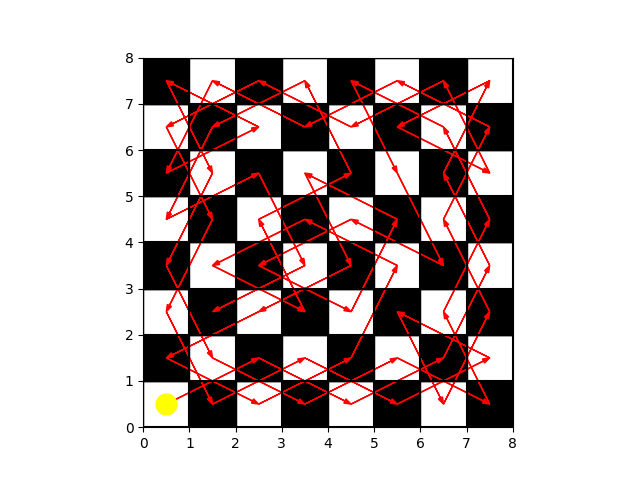
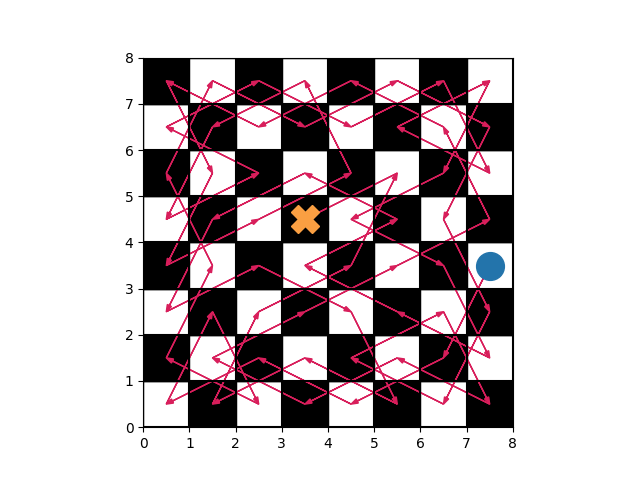
Cambié los colores de las flechas y añadí además un simbolo de fín para el último movimiento. Añadí dos imagenes png para un tablero 20x20 y otro 50x50.

diff --git a/caballo/ploteo.py b/caballo/ploteo.py
@@ -29,41 +29,47 @@ def generar_tablero():
                         edgecolor="black",
                     )
 
-
 def dibujar_vector(x1, y1, x2, y2):
     plt.arrow(
         x1 + 0.5,
         y1 + 0.5,
         x2 - x1,
         y2 - y1,
-        color="red",
+        color="#D81E5B",
         head_width=0.1,
         length_includes_head=True,
     )
 
-
 def generar_imagen(path: str, show: bool):
     import csv
 
-    movements = []
+    movimientos = []
     with open("movimientos.csv", newline="") as csvfile:
         reader = csv.reader(csvfile)
         for row in reader:
-            movements.append([int(x) for x in row])
+            movimientos.append([int(x) for x in row])
 
     generar_tablero()
 
     # Plotea los vectores de acuerdo a los movimientos.
-    for move in movements:
-        dibujar_vector(move[0], move[1], move[2], move[3])
+    for mov in movimientos:
+        dibujar_vector(mov[0], mov[1], mov[2], mov[3])
 
     # Marco el punto de inicio.
     plt.plot(
-        movements[0][0] + 0.5,
-        movements[0][1] + 0.5,
+        movimientos[0][0] + 0.5,
+        movimientos[0][1] + 0.5,
         "o",
-        color="yellow",
-        markersize=15,
+        color="#2374AB",
+        markersize=20,
+    )
+
+    plt.plot(
+        movimientos[-1][2] + 0.5,
+        movimientos[-1][3] + 0.5,
+        "X",
+        color="#FA9F42",
+        markersize=20,
     )
 
     plt.gca()
@@ -71,6 +77,5 @@ def generar_imagen(path: str, show: bool):
         plt.savefig(path)
         if show:
             plt.show()
-            plt.savefig(path)
     except KeyboardInterrupt:
         exit()

diff --git a/caballo/caballo.py b/caballo/caballo.py
@@ -60,10 +60,11 @@ def mover_pieza(coordenada: tuple[int, int], paso: int):
     """
 
     movimientos = ev_movimientos(coordenada)
-    min_mov = 8
+    min_mov = FILAS
     min_idx = (0, 0)
 
-    # Función de factibilidad. Busco el movimiento del caballo que deja al caballo con la menor cantidad de movimientos futuros posibles.
+    # Función de factibilidad. Busco el movimiento del caballo que deja al caballo 
+    # con la menor cantidad de movimientos futuros posibles.
     for mov in movimientos:
         cant_mov = len(ev_movimientos(mov))
         if cant_mov < min_mov:
